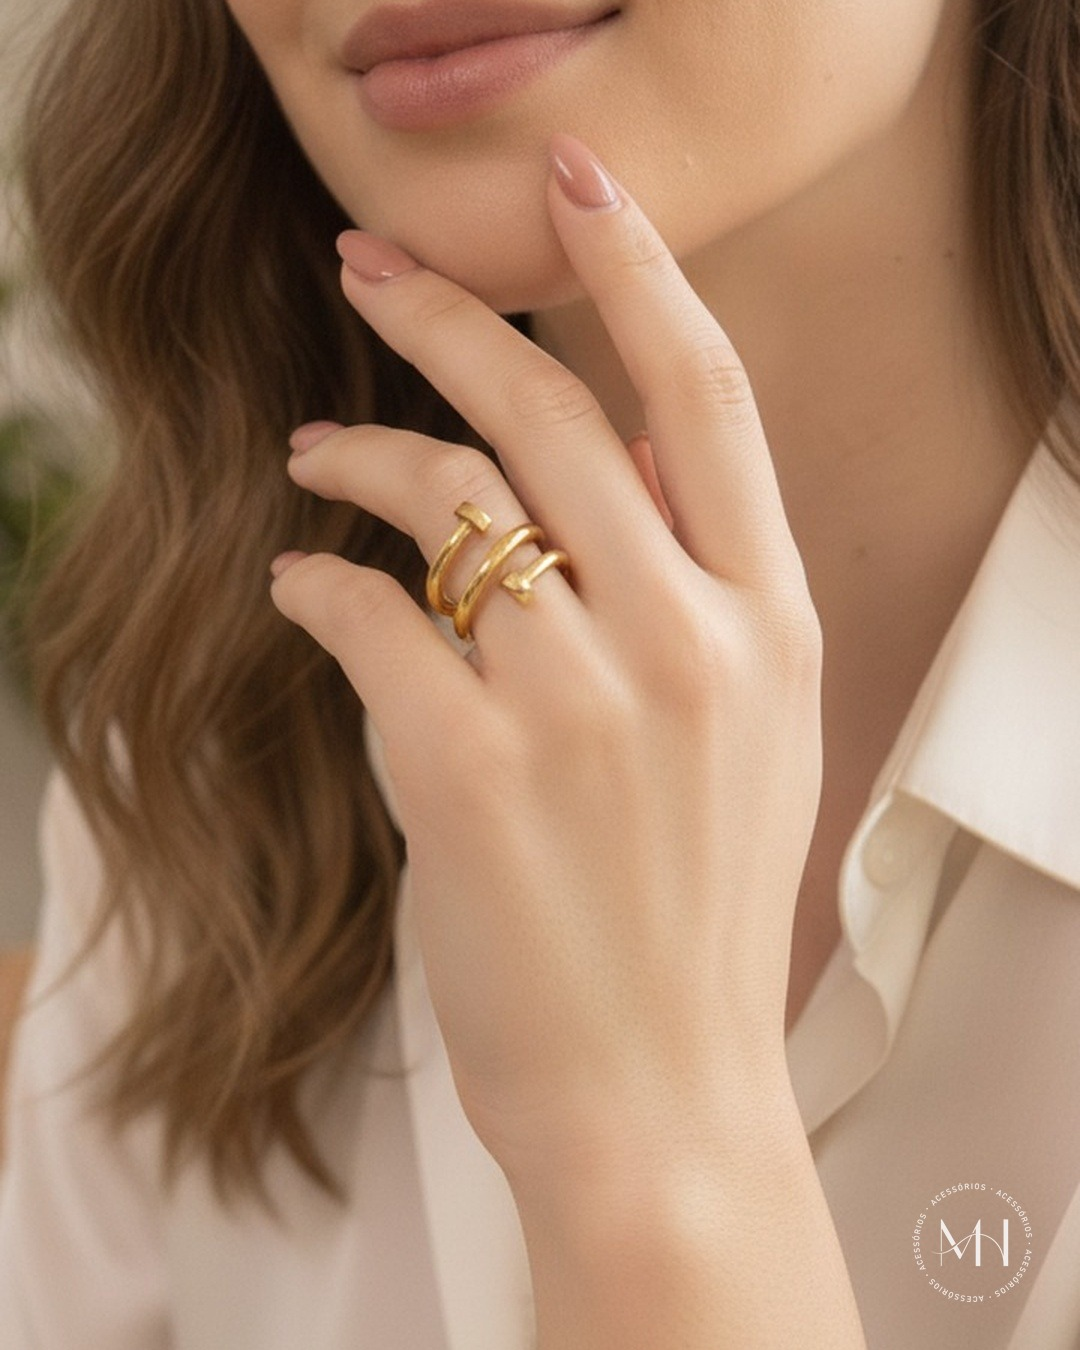
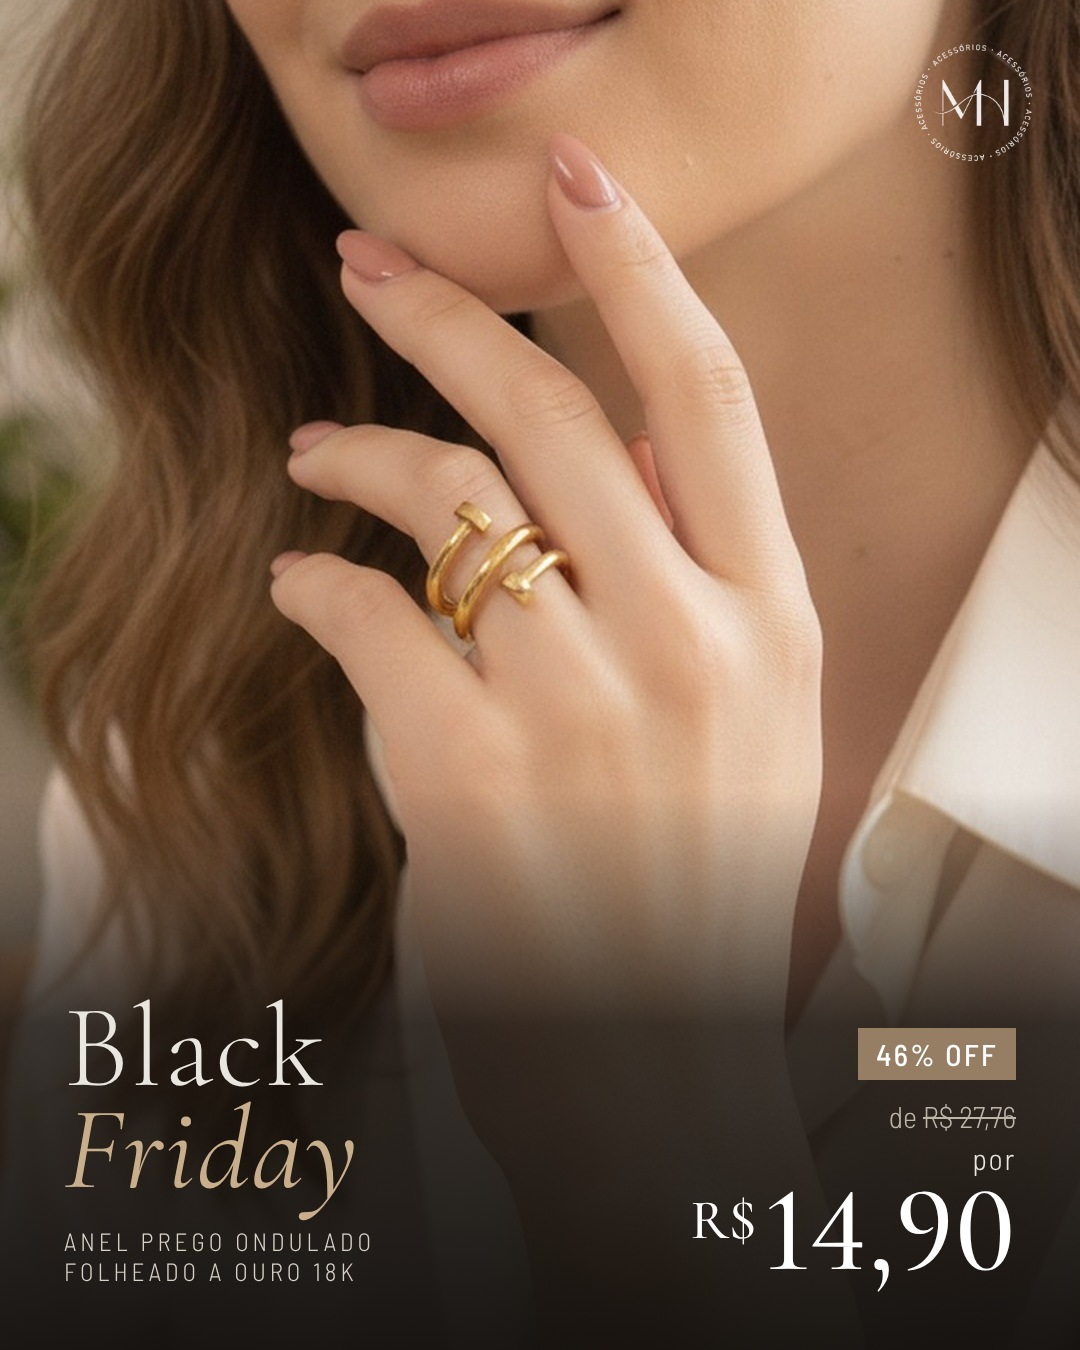
Black Friday: Anel Prego Ondulado de R$ 27,76 por R$ 14,90 (feed + story)

diff --git a/campanhas/black-friday/arte_story.html b/campanhas/black-friday/arte_story.html
@@ -1,0 +1,35 @@
+<!doctype html><html><head><meta charset="utf-8"><style>
+@font-face{font-family:Corm;font-weight:300;src:url(node_modules/@fontsource/cormorant-garamond/files/cormorant-garamond-latin-300-normal.woff2)}
+@font-face{font-family:Corm;font-weight:500;src:url(node_modules/@fontsource/cormorant-garamond/files/cormorant-garamond-latin-500-normal.woff2)}
+@font-face{font-family:Corm;font-weight:400;font-style:italic;src:url(node_modules/@fontsource/cormorant-garamond/files/cormorant-garamond-latin-400-italic.woff2)}
+@font-face{font-family:Barl;font-weight:300;src:url(node_modules/@fontsource/barlow-semi-condensed/files/barlow-semi-condensed-latin-300-normal.woff2)}
+@font-face{font-family:Barl;font-weight:500;src:url(node_modules/@fontsource/barlow-semi-condensed/files/barlow-semi-condensed-latin-500-normal.woff2)}
+*{margin:0;padding:0;box-sizing:border-box}
+body{width:1080px;height:1920px;position:relative;overflow:hidden;background:#000}
+.foto{position:absolute;inset:0;background:url(foto.jpg) center/cover}
+.grad{position:absolute;left:0;right:0;bottom:0;height:820px;background:linear-gradient(to bottom,rgba(14,12,10,0) 0%,rgba(14,12,10,.78) 42%,rgba(14,12,10,.94) 100%)}
+.selo{position:absolute;top:44px;right:48px;width:118px;opacity:.9}
+.tag{position:absolute;top:56px;left:56px;font-family:Barl;font-weight:500;font-size:22px;letter-spacing:.42em;color:#E9E6DF;background:rgba(14,12,10,.55);padding:12px 18px 12px 24px;border:1px solid rgba(233,230,223,.5)}
+.band{position:absolute;left:64px;right:64px;bottom:300px;display:flex;justify-content:space-between;align-items:flex-end}
+.bf{font-family:Corm;font-weight:300;color:#E9E6DF;font-size:118px;line-height:.86;letter-spacing:.02em}
+.bf i{font-style:italic;font-weight:400;color:#C9AE8C}
+.nome{margin-top:26px;font-family:Barl;font-weight:300;font-size:25px;letter-spacing:.16em;color:#D8D1C5;text-transform:uppercase}
+.preco{text-align:right;color:#E9E6DF}
+.off{display:inline-block;font-family:Barl;font-weight:500;font-size:30px;letter-spacing:.08em;background:#967E65;color:#fff;padding:8px 18px;margin-bottom:18px}
+.de{font-variant-numeric:lining-nums;font-family:Barl;font-weight:300;font-size:30px;color:#BDB5A8}
+.de s{text-decoration-thickness:2px}
+.por{font-family:Barl;font-weight:300;font-size:30px;margin-top:6px;letter-spacing:.06em}
+.valor{font-variant-numeric:lining-nums;font-family:Corm;font-weight:500;font-size:122px;line-height:.9;color:#fff}
+.valor small{font-size:56px;vertical-align:top;margin-right:6px;line-height:1.6}
+.line{position:absolute;left:64px;right:64px;bottom:310px;height:1px;background:rgba(201,174,140,.55)}
+.cta{position:absolute;left:0;right:0;bottom:170px;text-align:center;font-family:Barl;font-weight:500;font-size:30px;letter-spacing:.12em;color:#E9E6DF}
+.selo{top:120px}
+</style></head><body>
+<div class="foto"></div><div class="grad"></div>
+<img class="selo" src="selo.png">
+<div class="band">
+ <div><div class="bf">Black<br><i>Friday</i></div><div class="nome">Anel Prego Ondulado<br>Folheado a ouro 18k</div></div>
+ <div class="preco"><div class="off">46% OFF</div><div class="de">de <s>R$ 27,76</s></div><div class="por">por</div><div class="valor"><small>R$</small>14,90</div></div>
+</div>
+<div class="cta">Comente "EU QUERO" ou chame no direct</div>
+</body></html>

diff --git a/campanhas/black-friday/arte_feed.html b/campanhas/black-friday/arte_feed.html
@@ -1,0 +1,32 @@
+<!doctype html><html><head><meta charset="utf-8"><style>
+@font-face{font-family:Corm;font-weight:300;src:url(node_modules/@fontsource/cormorant-garamond/files/cormorant-garamond-latin-300-normal.woff2)}
+@font-face{font-family:Corm;font-weight:500;src:url(node_modules/@fontsource/cormorant-garamond/files/cormorant-garamond-latin-500-normal.woff2)}
+@font-face{font-family:Corm;font-weight:400;font-style:italic;src:url(node_modules/@fontsource/cormorant-garamond/files/cormorant-garamond-latin-400-italic.woff2)}
+@font-face{font-family:Barl;font-weight:300;src:url(node_modules/@fontsource/barlow-semi-condensed/files/barlow-semi-condensed-latin-300-normal.woff2)}
+@font-face{font-family:Barl;font-weight:500;src:url(node_modules/@fontsource/barlow-semi-condensed/files/barlow-semi-condensed-latin-500-normal.woff2)}
+*{margin:0;padding:0;box-sizing:border-box}
+body{width:1080px;height:1350px;position:relative;overflow:hidden;background:#000}
+.foto{position:absolute;inset:0;background:url(foto.jpg) center/cover}
+.grad{position:absolute;left:0;right:0;bottom:0;height:560px;background:linear-gradient(to bottom,rgba(14,12,10,0) 0%,rgba(14,12,10,.78) 42%,rgba(14,12,10,.94) 100%)}
+.selo{position:absolute;top:44px;right:48px;width:118px;opacity:.9}
+.tag{position:absolute;top:56px;left:56px;font-family:Barl;font-weight:500;font-size:22px;letter-spacing:.42em;color:#E9E6DF;background:rgba(14,12,10,.55);padding:12px 18px 12px 24px;border:1px solid rgba(233,230,223,.5)}
+.band{position:absolute;left:64px;right:64px;bottom:64px;display:flex;justify-content:space-between;align-items:flex-end}
+.bf{font-family:Corm;font-weight:300;color:#E9E6DF;font-size:118px;line-height:.86;letter-spacing:.02em}
+.bf i{font-style:italic;font-weight:400;color:#C9AE8C}
+.nome{margin-top:26px;font-family:Barl;font-weight:300;font-size:25px;letter-spacing:.16em;color:#D8D1C5;text-transform:uppercase}
+.preco{text-align:right;color:#E9E6DF}
+.off{display:inline-block;font-family:Barl;font-weight:500;font-size:30px;letter-spacing:.08em;background:#967E65;color:#fff;padding:8px 18px;margin-bottom:18px}
+.de{font-variant-numeric:lining-nums;font-family:Barl;font-weight:300;font-size:30px;color:#BDB5A8}
+.de s{text-decoration-thickness:2px}
+.por{font-family:Barl;font-weight:300;font-size:30px;margin-top:6px;letter-spacing:.06em}
+.valor{font-variant-numeric:lining-nums;font-family:Corm;font-weight:500;font-size:122px;line-height:.9;color:#fff}
+.valor small{font-size:56px;vertical-align:top;margin-right:6px;line-height:1.6}
+.line{position:absolute;left:64px;right:64px;bottom:310px;height:1px;background:rgba(201,174,140,.55)}
+</style></head><body>
+<div class="foto"></div><div class="grad"></div>
+<img class="selo" src="selo.png">
+<div class="band">
+ <div><div class="bf">Black<br><i>Friday</i></div><div class="nome">Anel Prego Ondulado<br>Folheado a ouro 18k</div></div>
+ <div class="preco"><div class="off">46% OFF</div><div class="de">de <s>R$ 27,76</s></div><div class="por">por</div><div class="valor"><small>R$</small>14,90</div></div>
+</div>
+</body></html>
